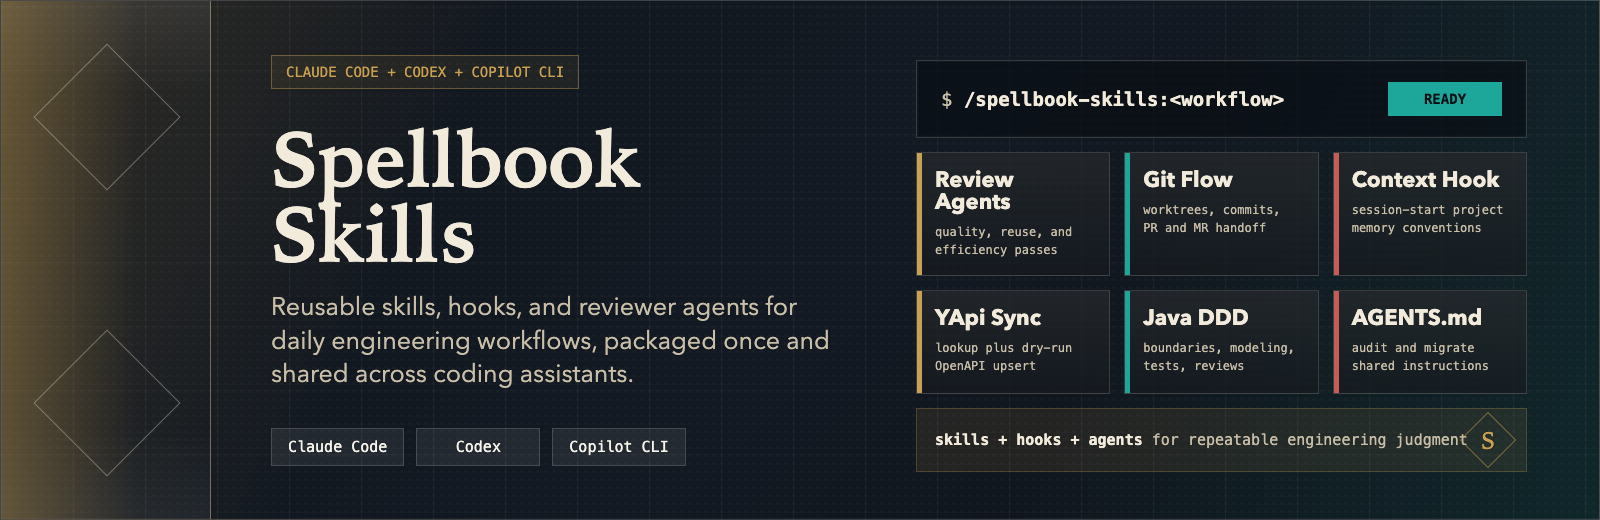
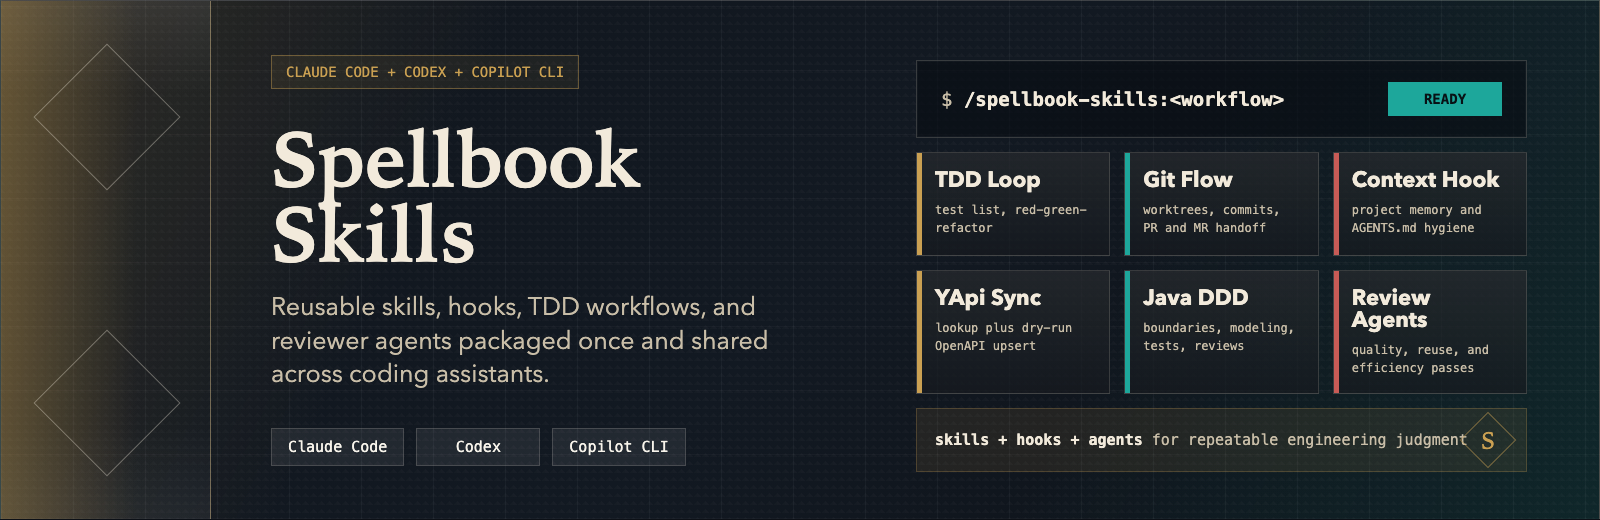
docs(readme): 更新 TDD 配图说明
- 在 README 概览和图片 alt 文案中补充 TDD

- 更新 banner/workflow 图源并重新生成 PNG

[#AI]

diff --git a/assets/workflow.html b/assets/workflow.html
@@ -252,14 +252,14 @@
     <main class="canvas" aria-label="Spellbook Skills workflow coverage">
       <header>
         <h1>Reusable workflows,<br>with project context built in.</h1>
-        <p class="lead">Spellbook Skills packages daily engineering judgment as skills, reviewer agents, and a SessionStart context hook shared across coding assistants.</p>
+        <p class="lead">Spellbook Skills packages daily engineering judgment as test-first skills, reviewer agents, and a SessionStart context hook shared across coding assistants.</p>
       </header>
 
       <section class="flow">
         <article class="node">
           <small>Input</small>
           <strong>Developer task</strong>
-          <p>review feedback, finish a branch, query an API, shape DDD boundaries</p>
+          <p>grow behavior test-first, review feedback, finish a branch, query an API, shape DDD boundaries</p>
         </article>
 
         <div class="rail" aria-hidden="true">
@@ -271,7 +271,7 @@
           <small>Reusable layer</small>
           <strong>Spellbook Skills</strong>
           <div class="capabilities">
-            <div class="capability"><b>Skills</b><span>named workflows with scripts and local guidance</span></div>
+            <div class="capability"><b>Skills</b><span>named workflows with test discipline, scripts, and local guidance</span></div>
             <div class="capability"><b>Reviewers</b><span>quality, reuse, and efficiency agent roles</span></div>
             <div class="capability"><b>Context Hook</b><span>project-memory conventions injected at session start</span></div>
           </div>
@@ -291,12 +291,12 @@
 
       <section class="coverage" aria-label="Covered workflows">
         <div class="skills">
+          <div class="skill"><h2>TDD Loop</h2><span>test list, red-green-refactor, tidy-first</span></div>
           <div class="skill"><h2>Git Flow</h2><span>worktrees, finish, commits, PRs and MRs</span></div>
           <div class="skill"><h2>Review Loop</h2><span>MR comments, simplify, reviewer agents</span></div>
           <div class="skill"><h2>YApi Docs</h2><span>lookup, details, OpenAPI dry-run upsert</span></div>
           <div class="skill"><h2>Java DDD</h2><span>boundaries, layering, tests, reviews</span></div>
-          <div class="skill"><h2>Project Context</h2><span>SessionStart project-memory conventions</span></div>
-          <div class="skill"><h2>AGENTS.md</h2><span>instruction audit, migration, cleanup</span></div>
+          <div class="skill"><h2>Context + AGENTS</h2><span>project memory, instruction audit, cleanup</span></div>
         </div>
       </section>
     </main>

diff --git a/assets/banner.html b/assets/banner.html
@@ -293,7 +293,7 @@
         <div>
           <div class="eyebrow">Claude Code + Codex + Copilot CLI</div>
           <h1>Spellbook<br>Skills</h1>
-          <p class="subtitle">Reusable skills, hooks, and reviewer agents for daily engineering workflows, packaged once and shared across coding assistants.</p>
+          <p class="subtitle">Reusable skills, hooks, TDD workflows, and reviewer agents packaged once and shared across coding assistants.</p>
           <div class="platforms" aria-label="Supported platforms">
             <span class="platform">Claude Code</span>
             <span class="platform">Codex</span>
@@ -309,8 +309,8 @@
 
           <div class="skill-grid">
             <article class="card">
-              <h2>Review Agents</h2>
-              <p>quality, reuse, and efficiency passes</p>
+              <h2>TDD Loop</h2>
+              <p>test list, red-green-refactor</p>
             </article>
             <article class="card">
               <h2>Git Flow</h2>
@@ -318,7 +318,7 @@
             </article>
             <article class="card">
               <h2>Context Hook</h2>
-              <p>session-start project memory conventions</p>
+              <p>project memory and AGENTS.md hygiene</p>
             </article>
             <article class="card">
               <h2>YApi Sync</h2>
@@ -329,8 +329,8 @@
               <p>boundaries, modeling, tests, reviews</p>
             </article>
             <article class="card">
-              <h2>AGENTS.md</h2>
-              <p>audit and migrate shared instructions</p>
+              <h2>Review Agents</h2>
+              <p>quality, reuse, and efficiency passes</p>
             </article>
           </div>
 

diff --git a/README.md b/README.md
@@ -1,7 +1,7 @@
 # Spellbook Skills
 
 <p align="center">
-  <img src="./assets/banner.png" alt="Spellbook Skills - reusable skills, hooks, and reviewer agents for daily engineering workflows" width="100%">
+  <img src="./assets/banner.png" alt="Spellbook Skills - reusable skills, hooks, TDD workflows, and reviewer agents for daily engineering workflows" width="100%">
 </p>
 
 <p align="center">
@@ -18,10 +18,10 @@ Personal skills library for daily workflows, packaged as Claude Code, GitHub Cop
 
 ## Overview
 
-Spellbook Skills is a collection of agent skills for daily development workflows — covering git worktrees, code review, API querying, DDD architecture guidance, and more. It also ships a **Project Context Hook** that injects framework-agnostic project-memory conventions into the agent at session start (see the [Project Context Hook](#project-context-hook) section below).
+Spellbook Skills is a collection of agent skills for daily development workflows — covering test-driven development, git worktrees, code review, API querying, DDD architecture guidance, and more. It also ships a **Project Context Hook** that injects framework-agnostic project-memory conventions into the agent at session start (see the [Project Context Hook](#project-context-hook) section below).
 
 <p align="center">
-  <img src="./assets/workflow.png" alt="Spellbook Skills workflow coverage across git flow, review loops, YApi docs, Java DDD, Project Context Hook, and AGENTS.md" width="100%">
+  <img src="./assets/workflow.png" alt="Spellbook Skills workflow coverage across TDD loops, git flow, review loops, YApi docs, Java DDD, Project Context Hook, and AGENTS.md" width="100%">
 </p>
 
 ## Requirements

diff --git a/README.zh-CN.md b/README.zh-CN.md
@@ -1,7 +1,7 @@
 # Spellbook Skills
 
 <p align="center">
-  <img src="./assets/banner.png" alt="Spellbook Skills - reusable skills, hooks, and reviewer agents for daily engineering workflows" width="100%">
+  <img src="./assets/banner.png" alt="Spellbook Skills - reusable skills, hooks, TDD workflows, and reviewer agents for daily engineering workflows" width="100%">
 </p>
 
 <p align="center">
@@ -18,10 +18,10 @@
 
 ## 概览
 
-Spellbook Skills 是一组面向日常开发工作流的 Agent 技能集合，涵盖 git worktree、代码审查、API 查询、DDD 架构指导等方面。此外还提供 **Project Context Hook**，在会话开始时向 Agent 注入框架无关的项目记忆库约定（详见下方 [Project Context Hook](#project-context-hook项目记忆库) 一节）。
+Spellbook Skills 是一组面向日常开发工作流的 Agent 技能集合，涵盖测试驱动开发、git worktree、代码审查、API 查询、DDD 架构指导等方面。此外还提供 **Project Context Hook**，在会话开始时向 Agent 注入框架无关的项目记忆库约定（详见下方 [Project Context Hook](#project-context-hook项目记忆库) 一节）。
 
 <p align="center">
-  <img src="./assets/workflow.png" alt="Spellbook Skills workflow coverage across git flow, review loops, YApi docs, Java DDD, Project Context Hook, and AGENTS.md" width="100%">
+  <img src="./assets/workflow.png" alt="Spellbook Skills workflow coverage across TDD loops, git flow, review loops, YApi docs, Java DDD, Project Context Hook, and AGENTS.md" width="100%">
 </p>
 
 ## 依赖
